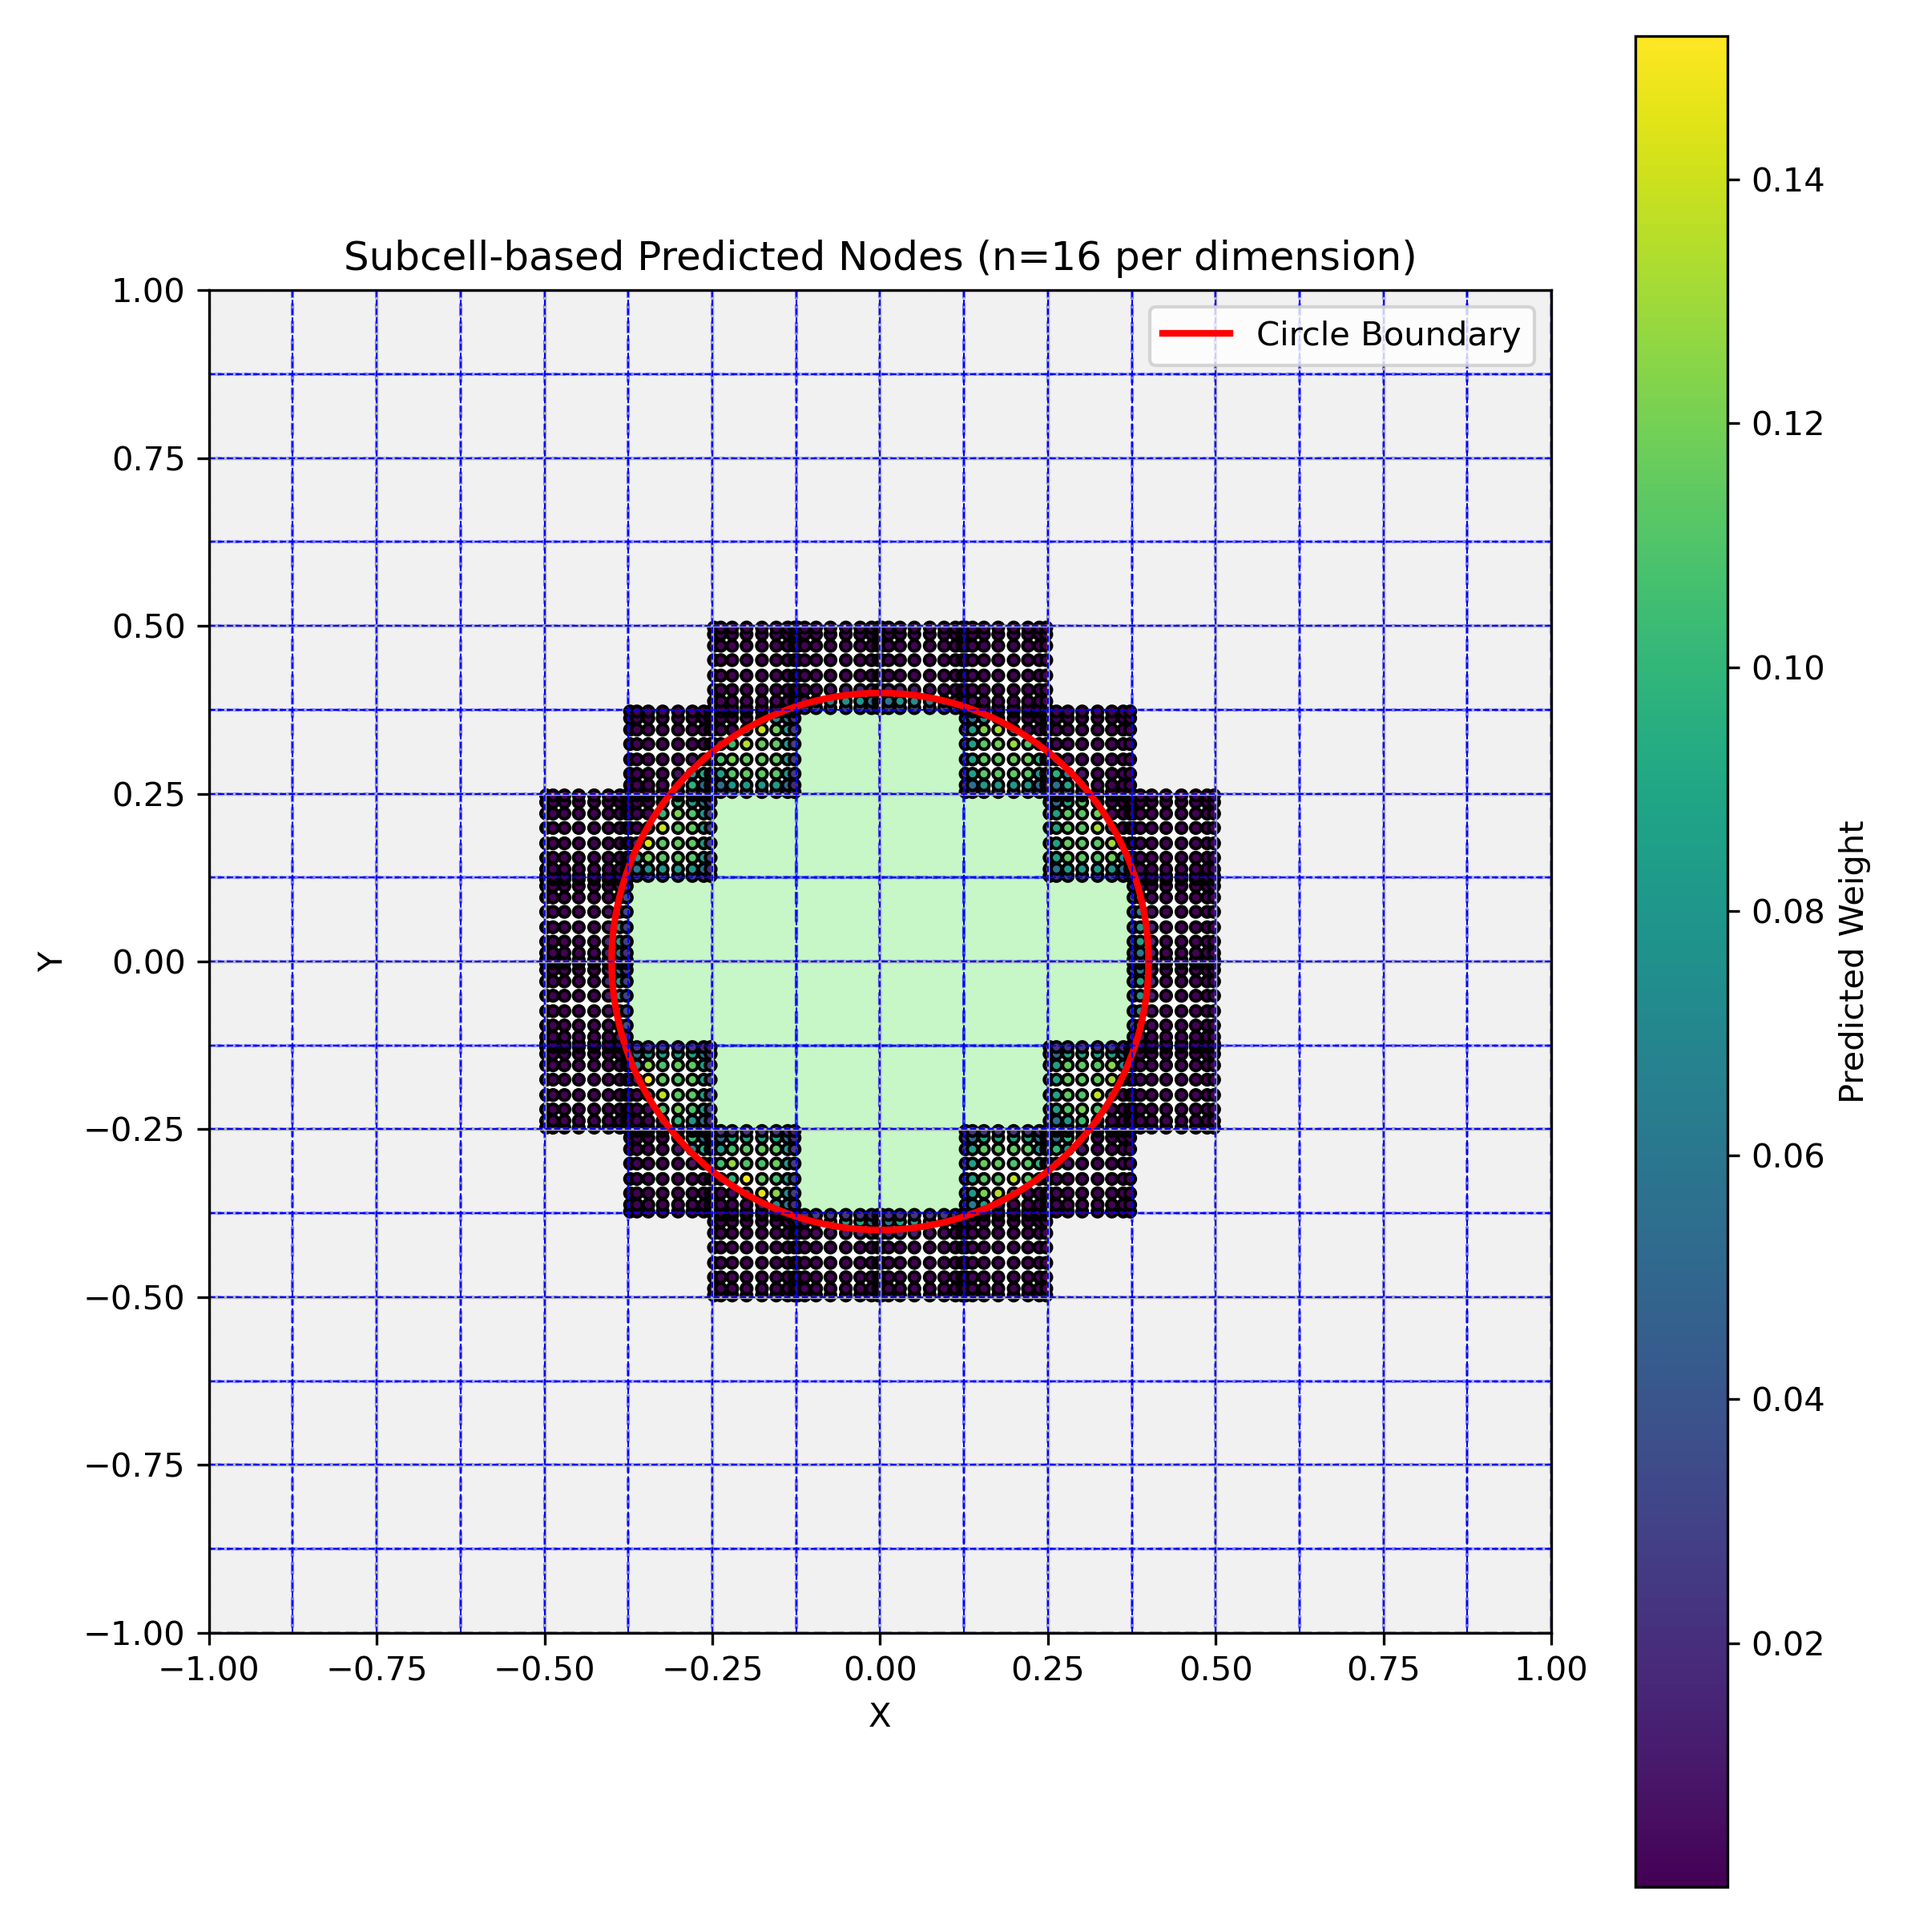
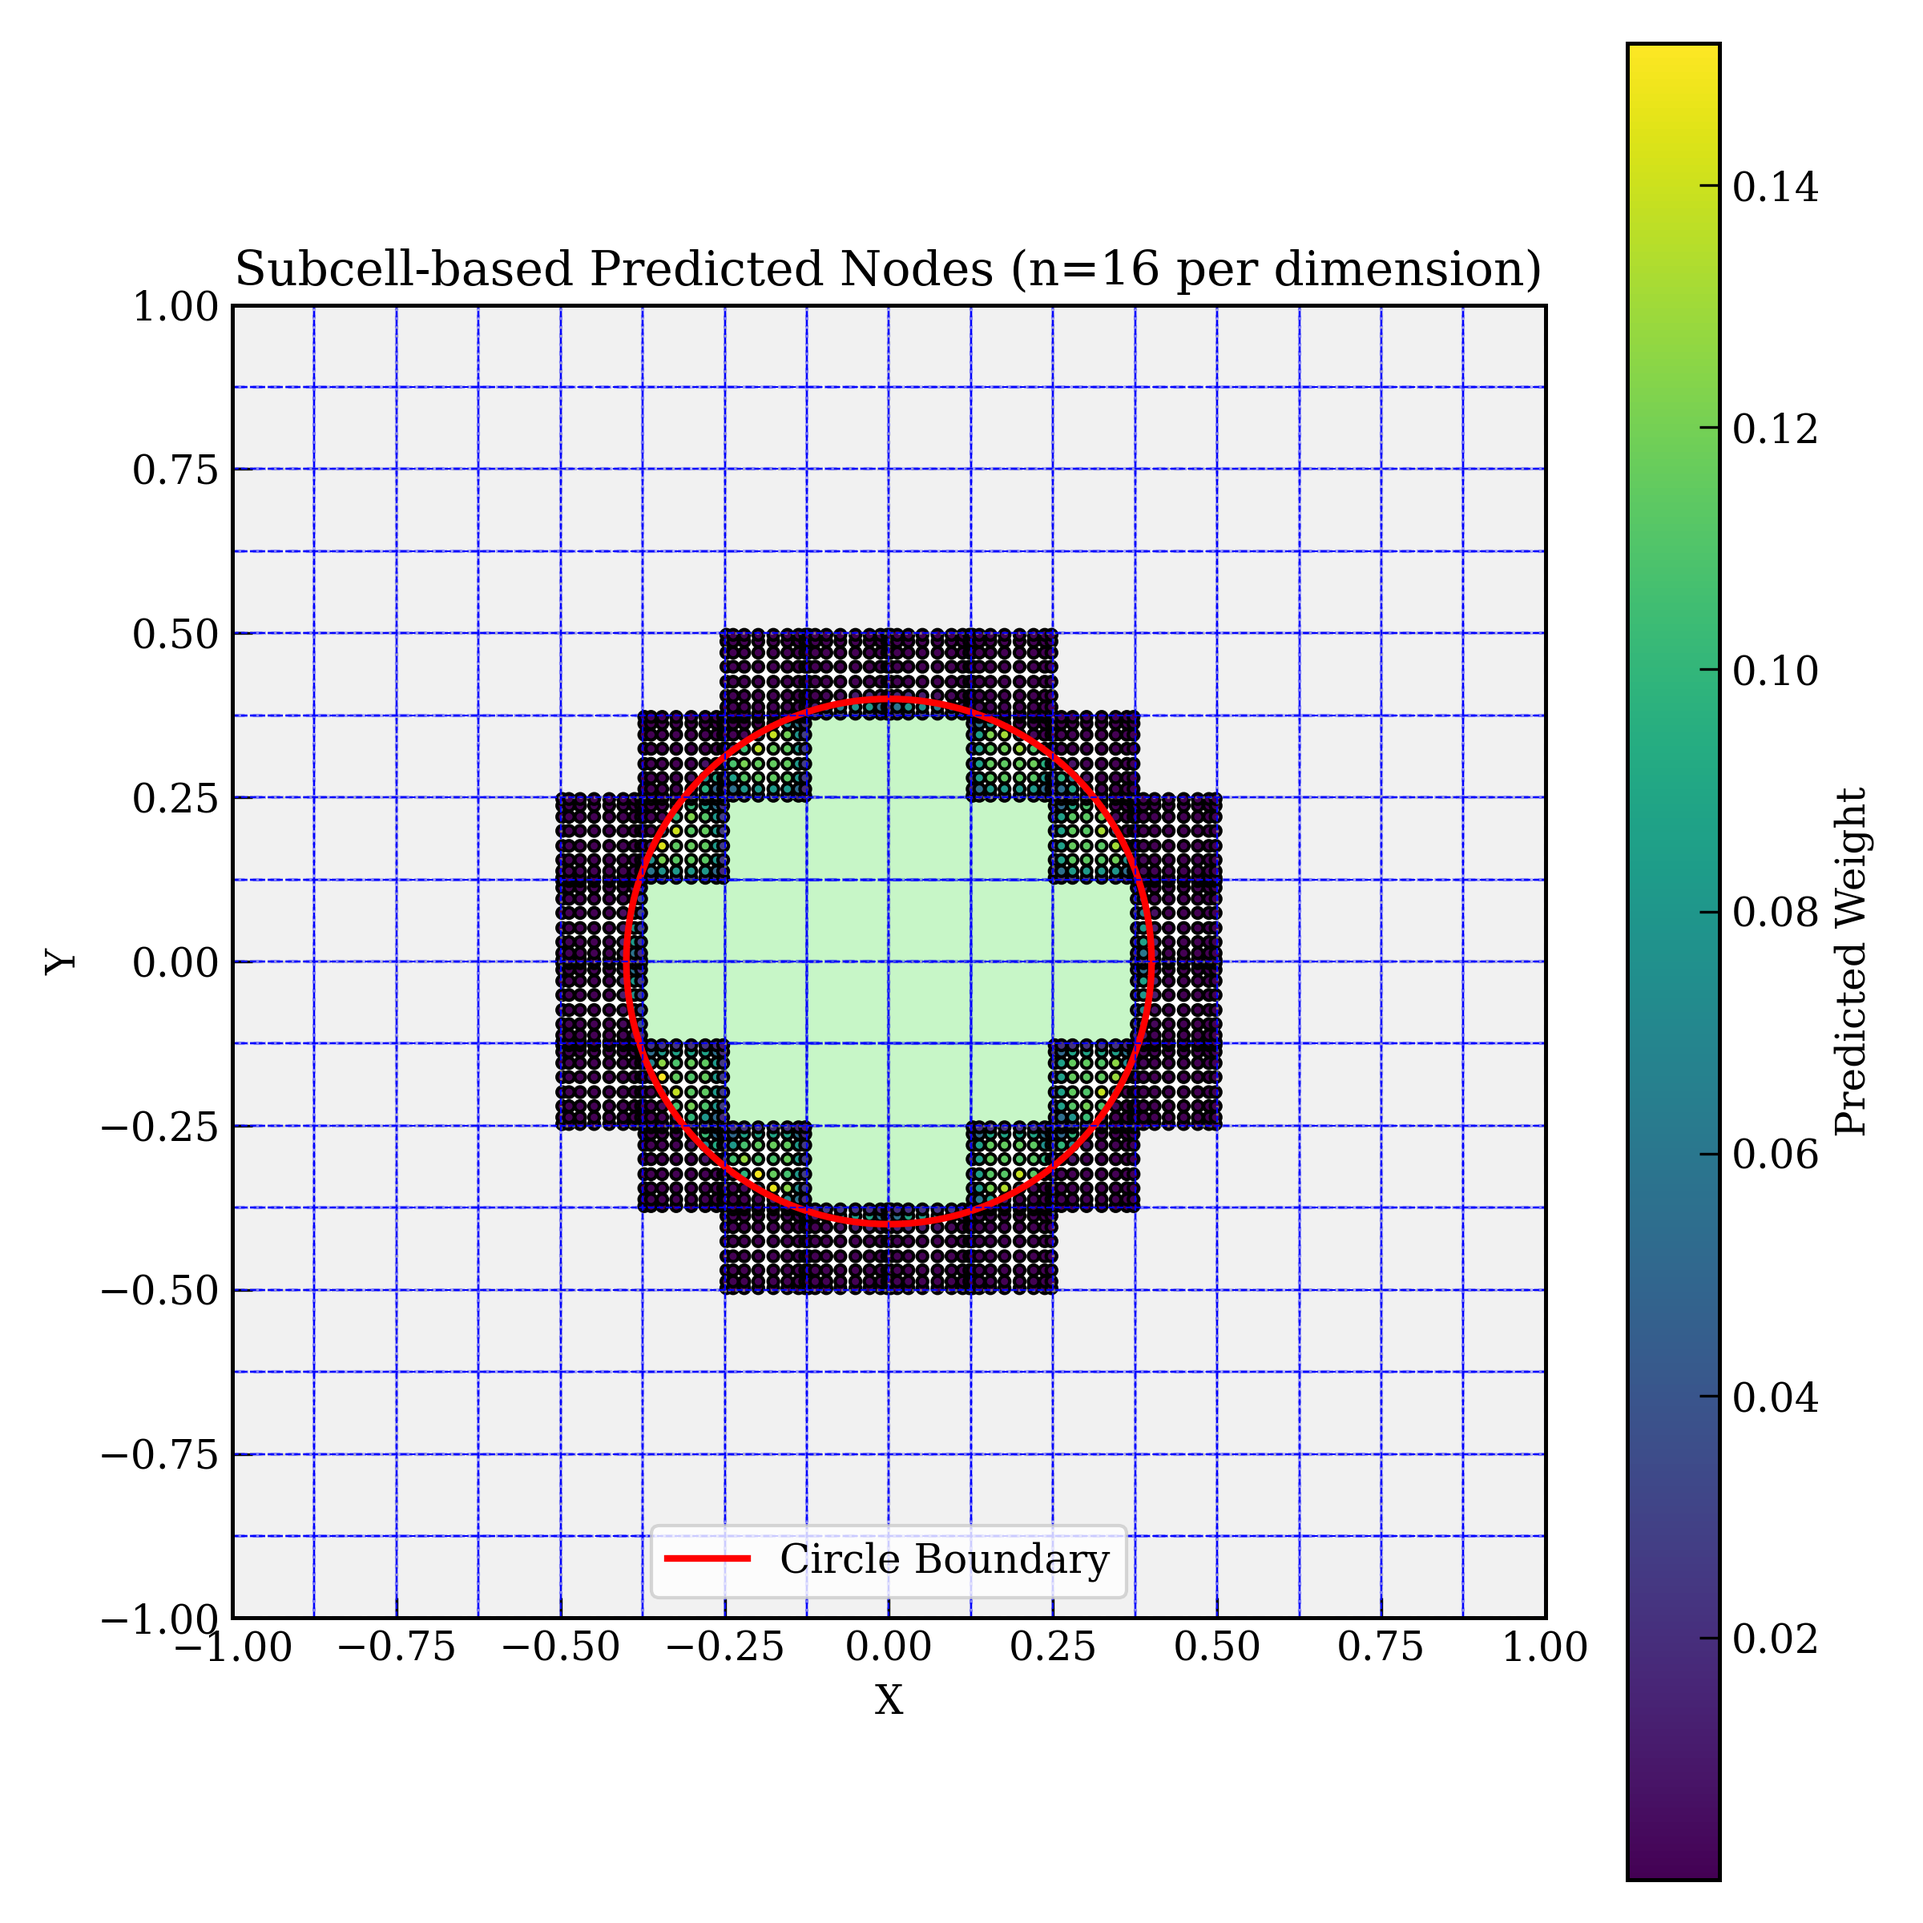
minor plot updates

Changed region(s): [[0.0625, 0.0, 0.9688, 1.0]]

diff --git a/Scripts/FNN/FNN_V6/test_fnn.py b/Scripts/FNN/FNN_V6/test_fnn.py
@@ -107,16 +107,16 @@ with torch.no_grad():
         for ex, ey, c in zip(exp_x.cpu().numpy().reshape(-1), exp_y.cpu().numpy().reshape(-1), coeff.cpu().numpy().reshape(-1)):
             ZZ += c * (XX**ex) * (YY**ey)
         plt.contour(XX, YY, ZZ, levels=[0], colors='k', linewidths=1.5)
-        plt.scatter(true_nodes_x, true_nodes_y, c=true_weights, cmap='viridis', label='True Points', alpha=0.6, marker='x')
+        plt.scatter(true_nodes_x, true_nodes_y, c=true_weights, cmap='viridis', label='Reference Points (Algoim)', alpha=0.6, marker='x')
         plt.scatter(predicted_nodes_x, predicted_nodes_y, c=predicted_weights, cmap='plasma', label='Predicted Points', alpha=0.6)
-        plt.title('True vs Predicted Nodes')
+        plt.title('Reference(Algoim) vs Predicted Nodes')
         plt.xlabel('X-coordinate')
         plt.ylabel('Y-coordinate')
         plt.colorbar(label='Weight (Coefficient)')
         plt.legend()
         plt.xlim(-1, 1)
         plt.ylim(-1, 1)
-        plt.text(0.05, 0.95, f"True Int: {true_val:.8f}\nPred Int: {pred_val:.8f}",
+        plt.text(0.05, 0.95, f"True Int (Algoim): {true_val:.8f}\nPred Int : {pred_val:.8f}",
                  transform=plt.gca().transAxes, fontsize=10, verticalalignment='top',
                  bbox=dict(facecolor='white', alpha=0.5))
         sample_plot_path = os.path.join(output_folder, f'{id[0]}.png')

diff --git a/Scripts/FNN/FNN_V6/hrefinement_circle.py b/Scripts/FNN/FNN_V6/hrefinement_circle.py
@@ -185,7 +185,7 @@ def save_subcell_nodes_plot(n_subdivisions, model, device='cpu', filename='subce
 ###############################################################################
 def plot_all_subcell_nodes_landscape(refinement_levels, model, device='cpu', filename='all_subcell_nodes_landscape.png'):
     n_levels = len(refinement_levels)
-    fig, axes = plt.subplots(1, n_levels, figsize=(5*n_levels, 5), squeeze=False)
+    fig, axes = plt.subplots(1, n_levels, figsize=(6*n_levels, 6), squeeze=False)
 
     # analytical circle boundary
     theta = np.linspace(0, 2*np.pi, 200)
@@ -259,7 +259,7 @@ def plot_all_subcell_nodes_landscape(refinement_levels, model, device='cpu', fil
         cbar.set_label("Predicted Weight")
 
     # adjust margins to prevent clipping
-    plt.subplots_adjust(top=0.85, bottom=0.10)
+    plt.subplots_adjust(top=0.88, bottom=0.08, left=0.05, right=0.98, wspace=0.3)
     # tight_layout within adjusted margins
     plt.tight_layout(rect=[0, 0.10, 1, 0.85])
 
@@ -272,7 +272,7 @@ def plot_all_subcell_nodes_landscape(refinement_levels, model, device='cpu', fil
 ###############################################################################
 def compute_error_circle():
     analytical_area = math.pi * (0.4**2)
-    refinement_levels = [1,2, 4, 8,16]
+    refinement_levels = [1, 2, 4, 8,16]
     error_list = []
     area_list = []
 

diff --git a/Scripts/GCNN/test_gcnn.py b/Scripts/GCNN/test_gcnn.py
@@ -150,7 +150,7 @@ with torch.no_grad():
         print(line, end='')
         log_f.write(line)
 
-        line = f"  True Int:  {true_val:.4e}\n"
+        line = f"  True int (Algoim):  {true_val:.4e}\n"
         print(line, end='')
         log_f.write(line)
 
@@ -182,7 +182,7 @@ with torch.no_grad():
         # — end ADDED —
 
         plt.scatter(true_nodes_x, true_nodes_y, c=true_weights, cmap='viridis',
-                    label='True Points', alpha=0.6, marker='x')
+                    label='Reference points (Algoim)', alpha=0.6, marker='x')
         plt.scatter(predicted_nodes_x, predicted_nodes_y, c=predicted_weights, cmap='plasma',
                     label='Predicted Points', alpha=0.6)
         plt.title('True vs Predicted Nodes')
@@ -192,7 +192,7 @@ with torch.no_grad():
         plt.legend()
         plt.xlim(-1, 1)
         plt.ylim(-1, 1)
-        plt.text(0.05, 0.95, f"True Int: {true_val:.8f}\nPred Int: {pred_val:.8f}",
+        plt.text(0.05, 0.95, f"True int (Algoim): {true_val:.8f}\nPred Int: {pred_val:.8f}",
                  transform=plt.gca().transAxes, fontsize=10, verticalalignment='top',
                  bbox=dict(facecolor='white', alpha=0.5))
         sample_plot_path = os.path.join(results_dir, f'{id[0]}.png')

diff --git a/Scripts/CNN_hybrid/Hybrid_V5/test_hybrid.py b/Scripts/CNN_hybrid/Hybrid_V5/test_hybrid.py
@@ -176,7 +176,7 @@ with torch.no_grad():
         # ======================================================
 
         plt.scatter(true_nodes_x, true_nodes_y, c=true_weights, cmap='viridis',
-                    label='True Points', alpha=0.6, marker='x')
+                    label='Reference points (Algoim)', alpha=0.6, marker='x')
         plt.scatter(predicted_nodes_x, predicted_nodes_y, c=predicted_weights, cmap='plasma',
                     label='Predicted Points', alpha=0.6)
         plt.title('True vs Predicted Nodes')
@@ -187,7 +187,7 @@ with torch.no_grad():
         plt.xlim(-1, 1)
         plt.ylim(-1, 1)
         # Add an annotation in the top-left corner with integration values.
-        plt.text(0.05, 0.95, f"True Int: {true_val:.8f}\nPred Int: {pred_val:.8f}",
+        plt.text(0.05, 0.95, f"True int (Algoim): {true_val:.8f}\nPred Int: {pred_val:.8f}",
                  transform=plt.gca().transAxes, fontsize=10, verticalalignment='top',
                  bbox=dict(facecolor='white', alpha=0.5))
         sample_plot_path = os.path.join(output_folder, f'{id[0]}.png')

diff --git a/Scripts/CNN/CNN_V6/test_cnn.py b/Scripts/CNN/CNN_V6/test_cnn.py
@@ -147,7 +147,7 @@ with torch.no_grad():
             true_nodes_y_np,
             c=true_weights_np,
             cmap='viridis',
-            label='True Points',
+            label='Reference Points (Algoim)',
             alpha=0.6,
             marker='x'
         )
@@ -172,7 +172,7 @@ with torch.no_grad():
 
         plt.text(
             0.05, 0.95,
-            f"True Int: {true_val:.8f}\nPred Int: {pred_val:.8f}",
+            f"True int (Algoim): {true_val:.8f}\nPred Int: {pred_val:.8f}",
             transform=plt.gca().transAxes,
             fontsize=10,
             verticalalignment='top',
